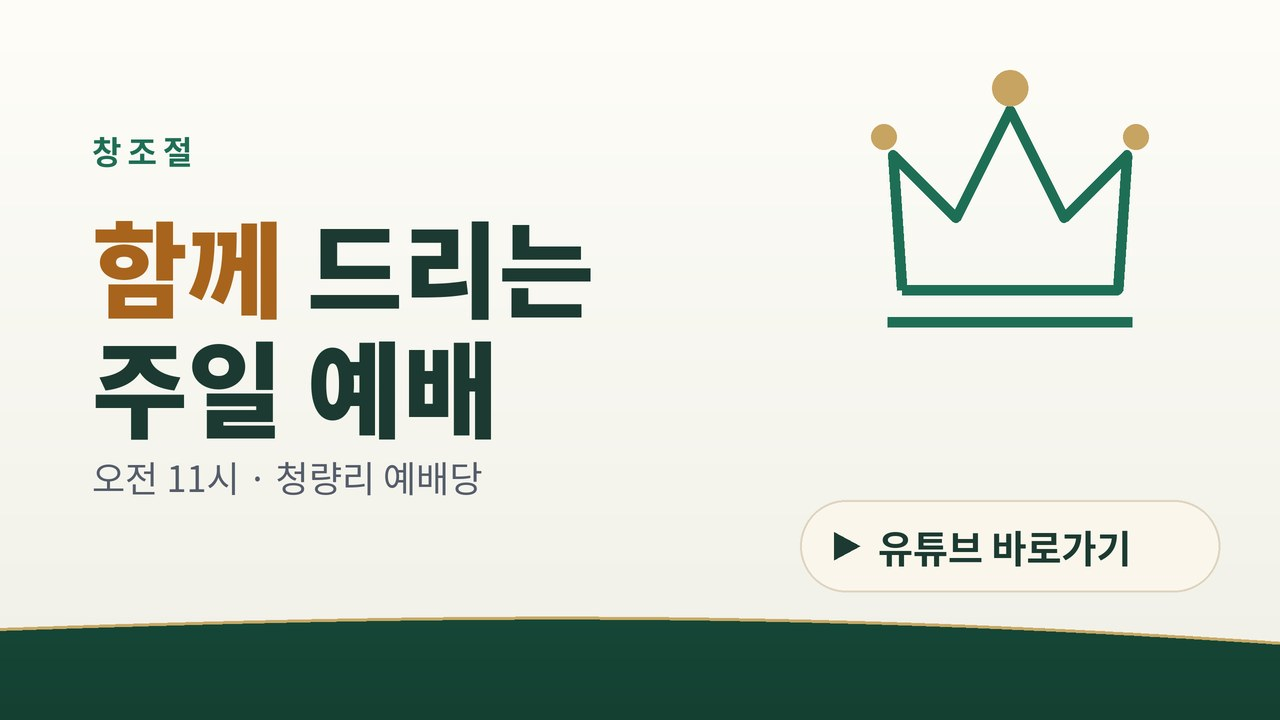
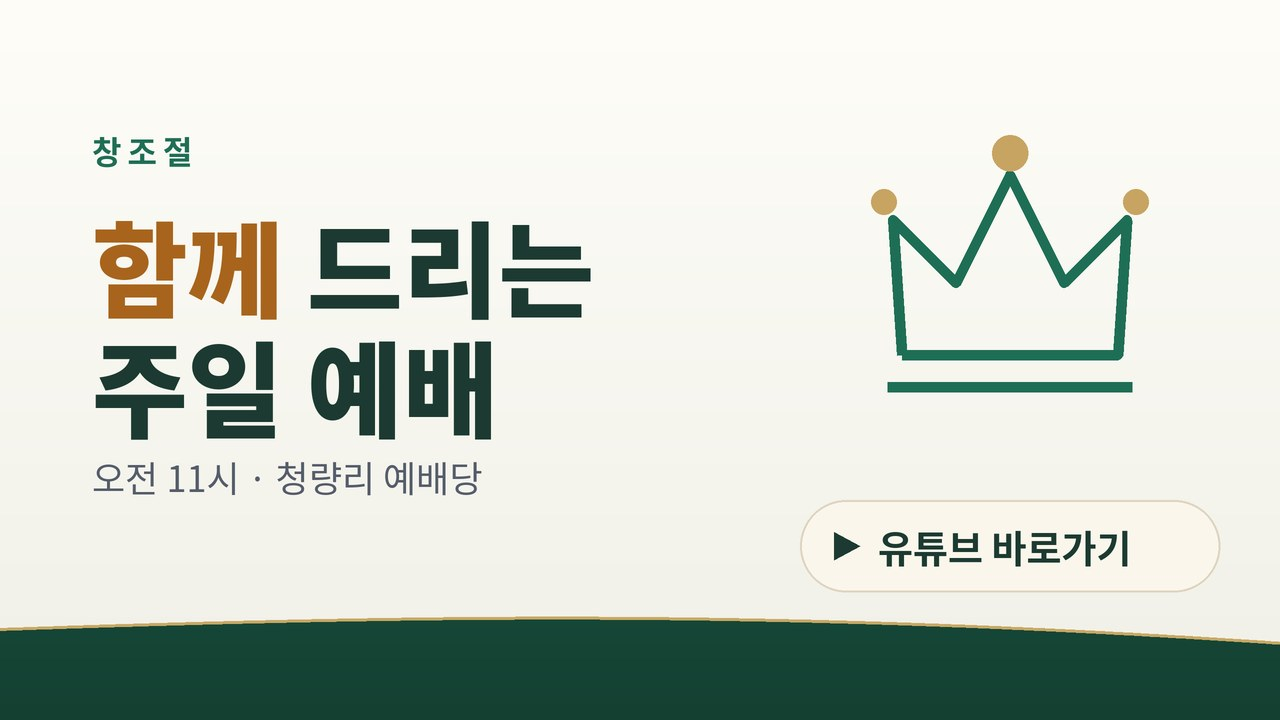
주일 배너(창조절) 왕관 위치를 라벨 줄에 맞춤
Claude-Session: https://claude.ai/code/session_01SUQQLDh1VZ9DJkmDKHFesn

Changed region(s): [[0.6562, 0.0917, 0.9062, 0.55]]

diff --git a/index.html b/index.html
@@ -718,7 +718,7 @@ function kidsBanner() {   // 어린이 채널 배너(표지 1장) → 채널로 
 const SUNDAY_LIST = 'https://www.youtube.com/playlist?list=PLXuDDjm7EXZo', DAWN_LIST = 'https://www.youtube.com/playlist?list=PLderqM7aVwPk';   // 재생목록 주소를 받으면 여기만 바꾼다
 // 주일 카드: 절기별 배너(마지막 날짜까지). 이후는 기본 배너. 미리보기는 주소 끝에 ?d=2026-12-06
 const SUNDAY_SEASON = [['2026-11-22', 'sunday-creation'], ['2026-12-24', 'sunday-advent']];
-const IMG_V = '?v=20261119d';   // 배너 이미지를 바꿀 때 이 날짜도 바꾼다(휴대폰에 남은 옛 이미지 방지)
+const IMG_V = '?v=20261119e';   // 배너 이미지를 바꿀 때 이 날짜도 바꾼다(휴대폰에 남은 옛 이미지 방지)
 function listCard(href, src, label) {   // 가로 배너 한 장 → 유튜브 재생목록
   const t = make('a', 'vthumb kbanner'); t.href = href; t.target = '_blank'; t.rel = 'noopener'; t.setAttribute('aria-label', label);
   const img = make('img'); img.src = src + IMG_V; img.alt = label; img.loading = 'lazy'; img.decoding = 'async'; t.append(img); return t;
